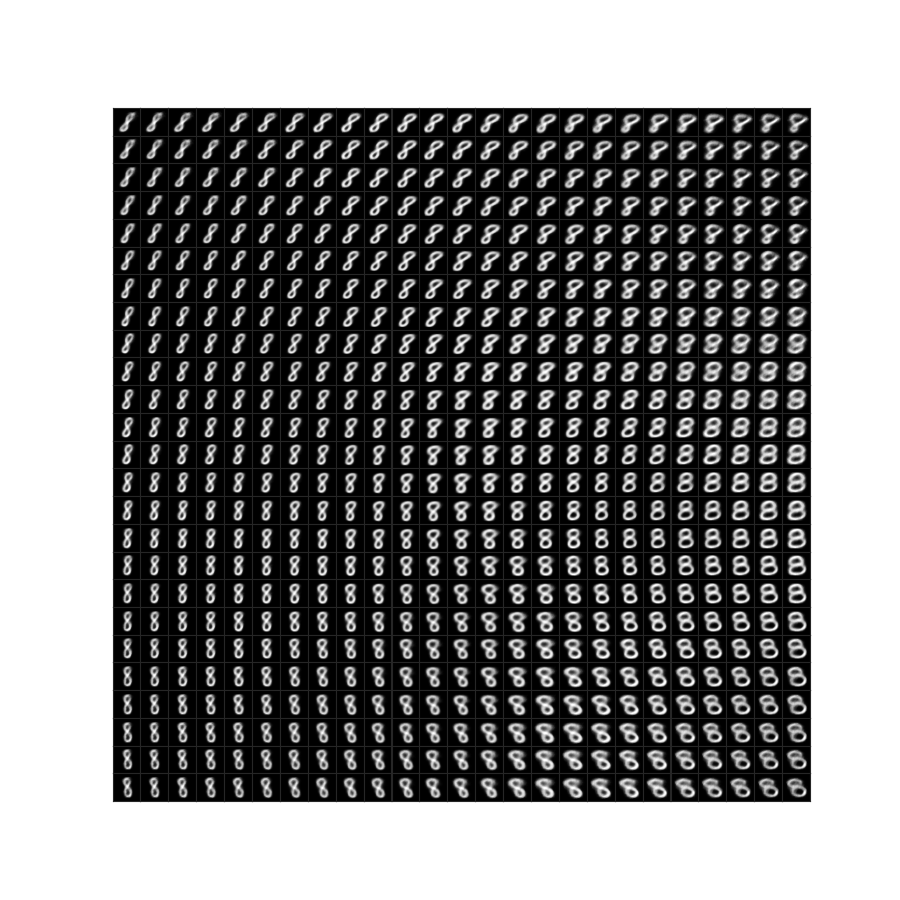
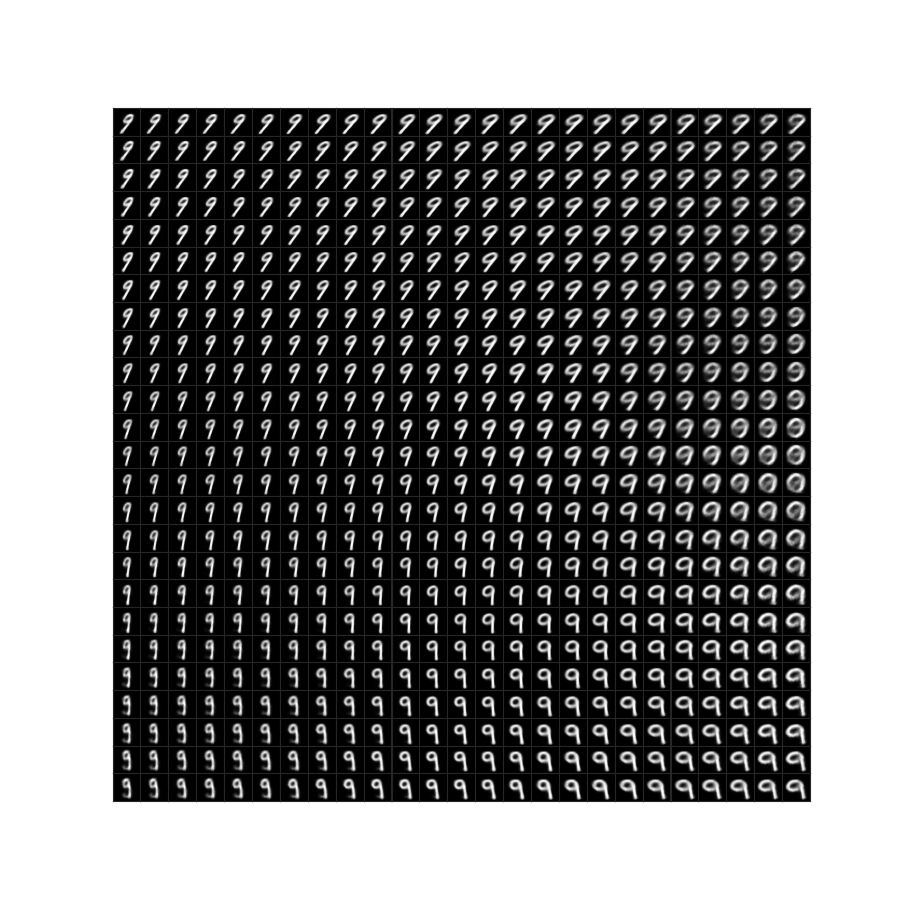
add app background (temp)

Changed region(s): [[0.1244, 0.1244, 0.9022, 0.9022]]

diff --git a/app_latent_space.py b/app_latent_space.py
@@ -4,7 +4,7 @@ import seaborn as sns
 import matplotlib.pyplot as plt
 
 from utils import fix_seed
-from models import VariationalAutoEncoder
+from models import ConditionalVariationalAutoEncoder
 
 # References: 
 # https://matplotlib.org/3.1.1/api/backend_bases_api.html#matplotlib.backend_bases.MouseEvent
@@ -14,6 +14,7 @@ class App(object):
     def __init__(self, model, device='cpu', show_exsamples=True, clear=True):
         self.fig, self.ax = plt.subplots(1, 1, figsize=(9, 9))
         self.x, self.y = 0.0, 0.0
+        self.target_class = 0
         self.clear = clear
         self.model = model
         self.device = device
@@ -54,12 +55,13 @@ class App(object):
             self.xlim = self.ax.get_xlim()
             self.ylim = self.ax.get_ylim()
         if not self.back_im:
-            self.back_im = Image.open("./figure/background.png")
+            self.back_im = Image.open(f"./figure/background_{self.target_class}.png")
         self.ax.imshow(self.back_im, extent=[*self.xlim, *self.ylim], alpha=0.8)
     
     def reconst_img(self):
-        z = torch.tensor([self.x, self.y], dtype=torch.float).to(self.device)
-        reconst = self.model.decoder(z).cpu().detach().numpy().reshape(28, 28)
+        z = torch.tensor([self.x, self.y], dtype=torch.float).reshape((1, 2)).to(self.device)
+        l = torch.tensor(self.target_class).reshape((1, )).to(self.device)
+        reconst = self.model.decoder(z, l).cpu().detach().numpy().reshape(28, 28)
         self.ax.imshow(reconst*255, "gray", extent=[2,4,2,4], alpha=1)
 
     def draw(self):
@@ -112,6 +114,13 @@ class App(object):
             if self.show_examples:
                 self._show_examples_plot()
             self.ax.figure.canvas.draw() 
+        try:
+            self.target_class = int(event.key)
+            self.draw()
+            self.back_im = Image.open(f"./figure/background_{self.target_class}.png")
+            self.ax.imshow(self.back_im, extent=[*self.xlim, *self.ylim], alpha=0.8)
+        except:
+            pass
         print(f'on_key(): {event.key}, {self.x:1.2f}, {self.y:1.2f}', )
 
 
@@ -126,7 +135,7 @@ if __name__ == "__main__":
 
     # _, _, dataset_test = load_tfds("mnist", batch_size=batch_size, seed=seed, preprocess_fn=None)
 
-    model = VariationalAutoEncoder(x_dim, z_dim, device)
+    model = ConditionalVariationalAutoEncoder(x_dim, z_dim, 10, device)
     model.load_state_dict(torch.load("./models/checkpoint.pth"))
     model.eval()
     for param in model.parameters():

diff --git a/latent_space.py b/latent_space.py
@@ -74,3 +74,28 @@ if __name__ == "__main__":
             axes[i][j].imshow(y[l * (l - 1 - i) + j], "gray")
     fig.subplots_adjust(wspace=0, hspace=0)
     fig.savefig("./figure/from_lattice_point.png")
+    
+    # for i in range(0, 10):
+    #     l = 25
+    #     x = np.linspace(-2, 2, l)
+    #     y = np.linspace(-2, 2, l)
+    #     t_class = i
+    #     target_input = torch.full((l*l,), t_class)
+    #     z_x, z_y = np.meshgrid(x, y)
+    #     fig, ax = plt.subplots(1, 1, figsize=(9, 9))
+    #     ax.plot(z_x, z_y, "o", ms=4, color="k")
+    #     fig.savefig("./figure/lattice_point.png")
+
+    #     Z = torch.tensor(np.array([z_x, z_y]), dtype=torch.float).permute(1,2,0) 
+    #     Z = Z.reshape((-1, 2))
+    #     y = model.decoder(Z, target_input).cpu().detach().numpy().reshape(-1, 28, 28) 
+    #     fig, axes = plt.subplots(l, l, figsize=(9, 9))
+
+    #     for i in range(l):
+    #         for j in range(l):
+    #             axes[i][j].set_xticks([])
+    #             axes[i][j].set_yticks([])
+    #             axes[i][j].imshow(y[l * (l - 1 - i) + j], "gray")
+    #     fig.subplots_adjust(wspace=0, hspace=0)
+    #     fig.savefig("./figure/from_lattice_point.png")
+    #     fig.savefig(f"./figure/background_{t_class}.png")
